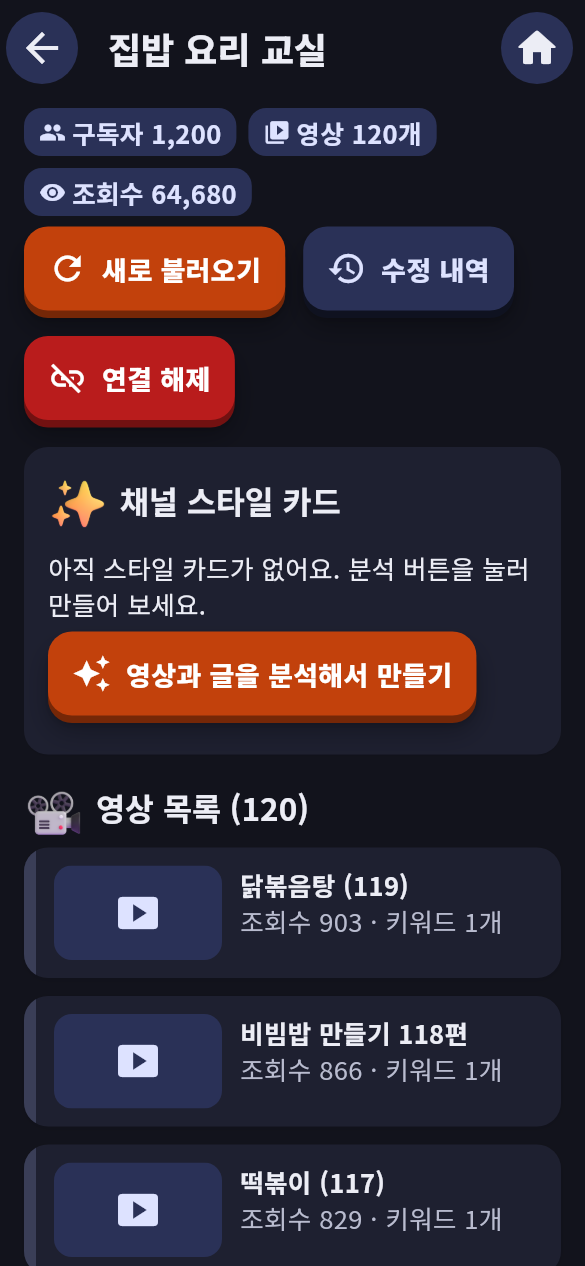
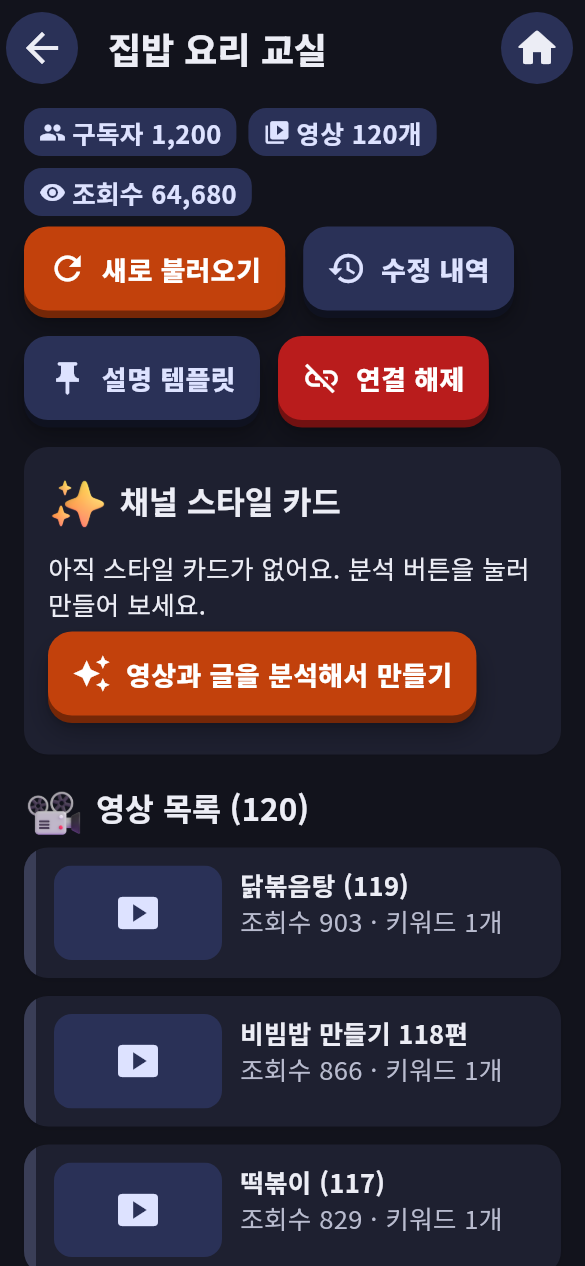
버전 1.1.0: 변경 내역, 결정 기록, 화면 개선 보고서(추가 기능 포함), README, 진행 상황, 화면 사진 13화면
Claude-Session: https://claude.ai/code/session_01F7mUDPiBNSrzb64jZ9gqVQ

Changed region(s): [[0.0308, 0.2464, 0.8615, 0.3389]]

diff --git a/app/test/tool_screens_test.dart b/app/test/tool_screens_test.dart
@@ -117,6 +117,10 @@ final shots = <Shot>[
   Shot('10-블로그', (t, s, k) async => navIcon(t, Icons.rss_feed)),
   Shot('11-내코너', (t, s, k) async => navIcon(t, Icons.auto_stories)),
   Shot('12-설정', (t, s, k) async => navIcon(t, Icons.settings)),
+  Shot('13-게시달력', (t, s, k) async {
+    await navIcon(t, Icons.movie_creation);
+    await tapKey(t, 'open-calendar');
+  }),
 ];
 
 Future<(TestKit, AppState)> _prepare(WidgetTester t) async {

diff --git a/docs/보고/화면개선.md b/docs/보고/화면개선.md
@@ -1,6 +1,6 @@
 # 화면 개선 보고 (디자인·3D)
 
-기능은 그대로 두고, 처음 쓰는 분과 어르신도 설명 없이 쓸 수 있게 화면을 바꿨습니다. 기존 테스트 104개는 하나도 고치지 않고 모두 통과하며, 새 검증 테스트 9개를 더했습니다 (총 113개).
+기능은 그대로 두고, 처음 쓰는 분과 어르신도 설명 없이 쓸 수 있게 화면을 바꿨습니다. 기존 테스트 104개는 하나도 고치지 않고 모두 통과하며, 화면 검증 테스트 9개와 추가 기능 테스트 13개를 더했습니다 (총 126개).
 
 ## 바뀐 것
 
@@ -40,8 +40,20 @@
 - 빈 화면에 "아직 없어요" + 어떻게 시작하는지 + 큰 시작 버튼.
 - 화면 문구 전수 점검: 인공지능(AI), 연결 열쇠(API 키), 구글 앱 번호(클라이언트 ID), 사용권(크레딧), 달러 등 쉬운 말로 바꿈 (다른 사이트에서 찾아야 하는 말만 괄호로 남김).
 
+## 화면 작업 뒤 추가한 기능 (TubeBuddy·vidIQ·Metricool 비교)
+| 기능 | 어디서 | 테스트 |
+|---|---|---|
+| 채널별 설명 템플릿 (고정 문구·링크·해시태그) | 채널 상세 → "설명 템플릿" | 자동으로 붙음·두 번 안 붙음·다른 채널엔 안 붙음, 화면에서 만들기 |
+| 일괄 수정 미리보기 | 홈 → "지금 수정 실행하기" | 체크 뺀 것은 적용 안 됨, 방금 것 모두 되돌리기로 원상복구, 모두 빼면 적용 버튼 꺼짐 |
+| 주목할 영상 | 홈 (해당 영상이 있을 때만 카드) | 갑자기 늘어난 영상만 찾음, 모두 똑같이 늘면 없음, 홈 카드 표시 |
+| 검색어 추천 (비용 표시) | 제작 상세 → "검색어 추천" | 기존 키워드와 겹치지 않음, 인공지능 사용 시 비용 기록, 골라서 키워드에 더하기 |
+| 게시 달력 | 제작 → "게시 달력" | 만듦·예약·확인 대기·공개함·블로그 글이 맞는 날짜에, 날짜 누르기·달 넘기기, 작은 화면 큰 글씨 |
+| 썸네일 비교 선택 | 제작 상세 → "썸네일 2개 만들어 고르기" | 문구·색이 다른 2개, 고른 것만 썸네일이 됨 |
+
+자료 형식이 버전 5로 올라갑니다 (영상별 날마다 조회수 기록). 앱을 업데이트하면 자동으로 바뀌고, 바꾸기 전에 자동 백업합니다.
+
 ## 스크린샷 위치
-`docs/화면/` — 12개 화면 × 밝음·어두움 (24장)
+`docs/화면/` — 13개 화면 × 밝음·어두움 (26장)
 
 | 화면 | 밝음 | 어두움 |
 |---|---|---|
@@ -57,11 +69,12 @@
 | 블로그 | 10-블로그-밝음.png | 10-블로그-어두움.png |
 | 내 코너 | 11-내코너-밝음.png | 11-내코너-어두움.png |
 | 설정 | 12-설정-밝음.png | 12-설정-어두움.png |
+| 게시 달력 | 13-게시달력-밝음.png | 13-게시달력-어두움.png |
 
 다시 만들기: `cd app && SHOTS=1 flutter test --run-skipped --tags tool test/tool_screens_test.dart`
 
 ## 검증
-- 기존 테스트 104개 그대로 통과 + 새 테스트 9개:
+- 기존 테스트 104개 그대로 통과 + 화면 검증 테스트 9개 (+ 추가 기능 테스트 13개):
   - 대비: 밝음·어두움·고대비 밝음·고대비 어두움 4가지 모두 글자/바탕, 버튼, 상태 배지가 4.5:1 이상
   - 가장 작은 화면(320×568) + 아주 큰 글씨 + 어두운 모드, 그리고 고대비 어두운 모드에서 아래 메뉴 6개 + 하위 화면 8개 + 첫 실행 안내 4단계 + 로그인 화면을 끝까지 내려 보며 잘림·겹침 없음
   - 움직임 줄이기: 움직임 시간 0, 목록 나타나기 효과 꺼짐, 설정이 앱 전체에 반영

diff --git a/DECISIONS.md b/DECISIONS.md
@@ -52,3 +52,9 @@
 | 46 | (화면 개선) 눌림 효과는 손가락이 닿은 것만 감지(Listener)하고 실제 동작은 버튼이 처리 | 두 개의 누르기 인식기가 서로 다투지 않게 |
 | 47 | (화면 개선) 화면 문구의 영어·전문 용어를 쉬운 말로: AI→인공지능, API 키→연결 열쇠 (API 키), 클라이언트 ID→구글 앱 번호 (클라이언트 ID), 토큰→연결 정보, 크레딧→사용권(크레딧), $→달러 | 다른 사이트(구글·Anthropic 콘솔)에서 같은 말을 찾아야 하는 곳만 원래 용어를 괄호로 남김 |
 | 48 | (화면 개선) "AI 콘텐츠 표시를 확인해 주세요" 한 문구는 그대로 둠 | 유튜브 화면의 "AI" 표시 이름과 같아야 사용자가 찾을 수 있고, 기존 흐름 테스트가 이 문구를 확인함 |
+| 49 | (추가 기능) 설명 템플릿은 채널마다 하나, 새로 만드는 콘텐츠 설명 끝에만 붙임 (기존 영상 자동 수정에는 붙이지 않음) | 기존 영상 설명을 몰래 바꾸지 않게. 같은 내용이 이미 있으면 다시 붙이지 않음 |
+| 50 | (추가 기능) 일괄 수정 미리보기는 전체 화면 창. 적용 뒤 완료 알림의 "방금 것 모두 되돌리기"는 확인 없이 바로 되돌림 | 사용자가 방금 한 일을 취소하는 동작이라 다시 묻지 않음. 하나씩 되돌리기는 수정 내역 화면 |
+| 51 | (추가 기능) 주목할 영상 = 최근 두 기록 사이 하루 증가량이 하루 50회 이상이면서 같은 채널 영상들의 중간값보다 3배 이상 | 작은 채널의 우연한 변화는 빼고, 채널마다 기준이 다르게. 영상별 기록은 자료 버전 5에서 추가, 90일 넘은 기록은 정리 |
+| 52 | (추가 기능) 검색어 추천은 제작 상세에서만 (기존 영상 수정은 일괄 수정 미리보기에서 확인) | 고를 수 있는 화면에서 쓰는 게 자연스러움. 인공지능을 쓰면 예상 비용을 먼저 확인 |
+| 53 | (추가 기능) 게시 달력의 "예약" 은 유튜브 한도 때문에 "내일 올리기" 로 미뤄 둔 것 | 앱은 자동 업로드를 하지 않으므로 예약 게시 기능이 따로 없음 |
+| 54 | (추가 기능) 썸네일 비교는 A안(썸네일 문구) / B안(제목 앞부분), 색도 다르게. 자동 A/B 시험은 다음 단계 | 지시서 |

diff --git a/README.md b/README.md
@@ -46,7 +46,11 @@
 | 제작 | 쇼츠·롱폼·다큐·사진 게시물·음성 대화형 만들기, 영상 넣기, 썸네일, 비공개 업로드, 확인 대기 목록 |
 | 블로그 | 구글 블로그 연결·글 다듬기·새 글(초안), 티스토리 글 만들기(복사해서 올리기) |
 | 내 코너 | 내가 찍은 영상과 음성 메모로 내 이야기 콘텐츠 만들기, 폴더에서 소재 가져오기 |
-| 설정 | 글씨 크기, 음성, AI 키, 구글 연결 준비, 자동 작업, 제작 도구 연결, 백업·복원, 문제 신고, 초기화 |
+| 설정 | 보기(글씨 크기·밝기·또렷하게·움직임 줄이기), 음성, 인공지능 연결, 구글 연결 준비, 자동 작업, 제작 도구 연결, 백업·복원, 문제 신고, 초기화 |
+
+홈 맨 위 **"오늘 할 일"** 카드에 지금 가장 먼저 할 일 하나가 나와요. 색의 뜻은 어디서나 같아요: 🟢 초록 = 끝남·연결됨, 🔵 파랑 = 진행 중, 🟡 노랑 = 확인 필요, 🔴 빨강 = 문제·주의.
+
+그 밖의 편리한 기능: 채널별 **설명 템플릿**(채널 상세), 한 화면에서 보는 **일괄 수정 미리보기**, 조회수가 빨리 느는 **주목할 영상**(홈), **검색어 추천**·**썸네일 2개 비교**(제작 상세), **게시 달력**(제작).
 
 어느 화면에서든 오른쪽 아래 **마이크 버튼**을 누르고 말하면 돼요. 예:
 - "이번 주 조회수 보여줘"
@@ -141,4 +145,6 @@
 - 검사: `cd app && dart format --set-exit-if-changed lib test && flutter analyze --fatal-infos && flutter test`
 - 빌드: `flutter build linux|windows|macos|apk --release` (GitHub Actions 가 push 마다 자동 실행)
 - 화면 문구: `app/lib/core/strings.dart`
-- 보고서: `docs/보고/`, 안전 점검: `docs/검증/`, 판매 준비: `docs/배포준비.md`
+- 보고서: `docs/보고/` (화면 개선: `docs/보고/화면개선.md`), 화면 사진: `docs/화면/`, 안전 점검: `docs/검증/`, 판매 준비: `docs/배포준비.md`
+- 디자인 값(색·크기·간격·그림자·움직임): `app/lib/ui/theme.dart`, 공통 위젯: `app/lib/ui/widgets.dart`, 그림: `app/assets/icons3d/`
+- 커밋: `app/tool/commit.sh "메시지"` (검사를 모두 통과해야만 커밋)

diff --git a/PROGRESS.md b/PROGRESS.md
@@ -21,8 +21,10 @@
 - 완료: 테마 한 파일(`app/lib/ui/theme.dart`), 공통 3D 위젯(`app/lib/ui/widgets.dart`), 3D 아이콘·마스코트(`app/assets/icons3d`), 홈·채널·수정·제작·확인 대기·블로그·내 코너·설정·첫 실행 안내·로그인·음성 창, 쉬운 말 점검, 검증 테스트(대비·작은 화면 큰 글씨 어두운/고대비·움직임 줄이기), 화면 사진(docs/화면), 속도 비교, 보고서(docs/보고/화면개선.md)
 - 커밋 도구: `app/tool/commit.sh "메시지"` (검사를 모두 통과해야만 커밋·푸시)
 
+- 추가 기능(7-1) 완료: 설명 템플릿, 일괄 수정 미리보기, 주목할 영상, 검색어 추천, 게시 달력, 썸네일 비교 선택 (버전 1.1.0, 테스트 126개)
+
 ## 지금 하던 것
-- 화면 개선 뒤 추가 기능 (7-1): 설명 템플릿 → 일괄 수정 미리보기 → 주목할 영상 → 검색어 추천 → 게시 달력 → 썸네일 비교 선택
+- 없음 (2차 지시서 완료, main 에 병합)
 
 ## 다음에 할 일 (사용자 쪽)
 1. README 의 "구글 연결 준비하기" 로 실제 계정 연결
@@ -33,6 +35,7 @@
 - 힉스필드 공식 API 확인 후 주소·요금 맞추기 (BLOCKERS 3)
 - 운영체제 예약 실행 (앱이 꺼져 있어도 자동 작업)
 - 외부 음성 서비스 연결, 영상 소리 받아쓰기 자막
+- 썸네일 자동 A/B 시험 (지금은 사용자가 2개 중 고르기)
 
 ## 알려진 문제
 - 안드로이드는 이 개발 환경에서 직접 빌드 불가 → GitHub Actions 결과로 확인

diff --git a/app/CHANGELOG.md b/app/CHANGELOG.md
@@ -1,5 +1,16 @@
 # 변경 내역
 
+## 1.1.0
+- 화면 새 단장: 큰 3D 타일 홈, "오늘 할 일" 카드, 비서 마스코트, 원형 게이지, 상태 색(초록·파랑·노랑·빨강) 통일
+- 밝게·어둡게·또렷하게(고대비) 보기, 움직임 줄이기, 누를 때 진동·소리
+- 처음 쓰는 화면 안내 말풍선, 빈 화면 시작 버튼, 위험한 동작 2번 확인, 쉬운 말로 문구 정리
+- 채널별 설명 템플릿 (고정 문구·링크·해시태그 자동으로 붙이기)
+- 일괄 수정 미리보기 (고른 것만 적용, 방금 것 모두 되돌리기)
+- 주목할 영상 (평소보다 조회수가 빨리 느는 영상을 홈에)
+- 검색어 추천 (비용 표시)
+- 게시 달력
+- 썸네일 2개 만들어 고르기
+
 ## 1.0.0
 - 썸네일 그림 만들기(문구로) / 내 그림 넣기, 업로드 때 함께 올리기
 - AI 를 쓰는 작업 전에 예상 비용 확인
